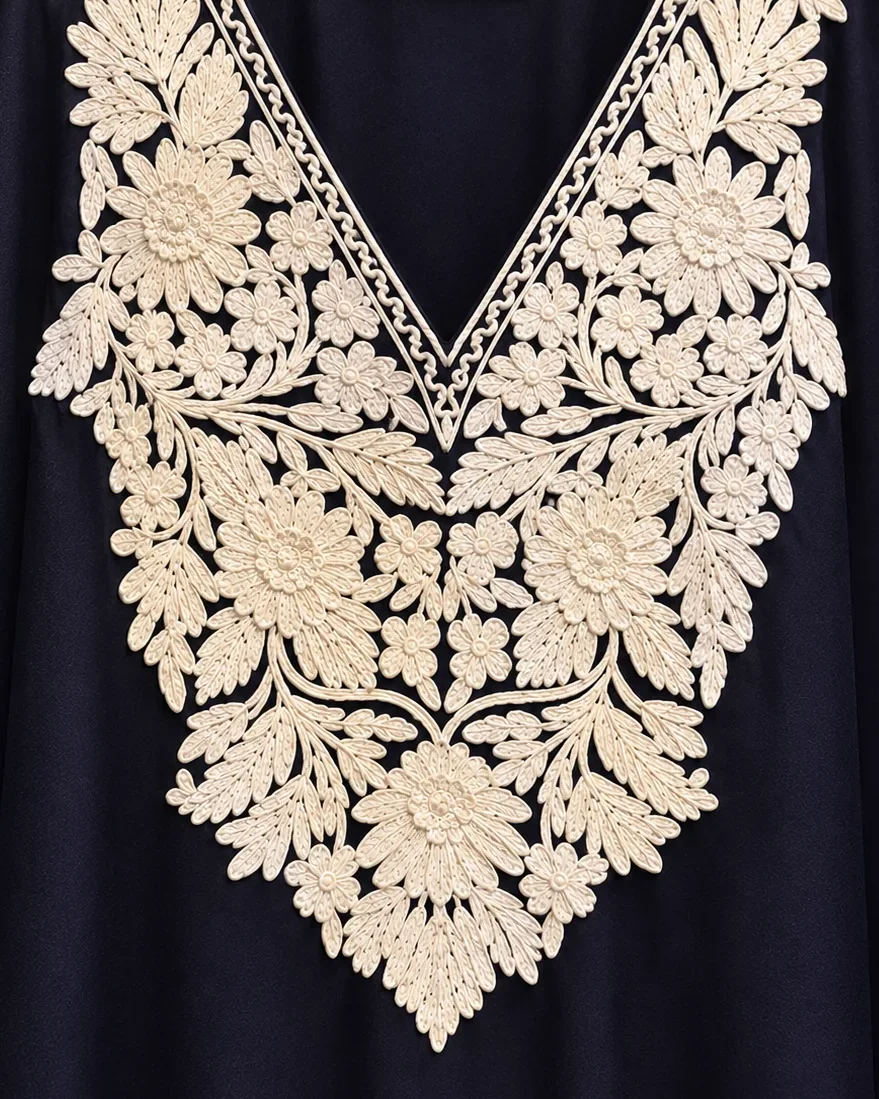
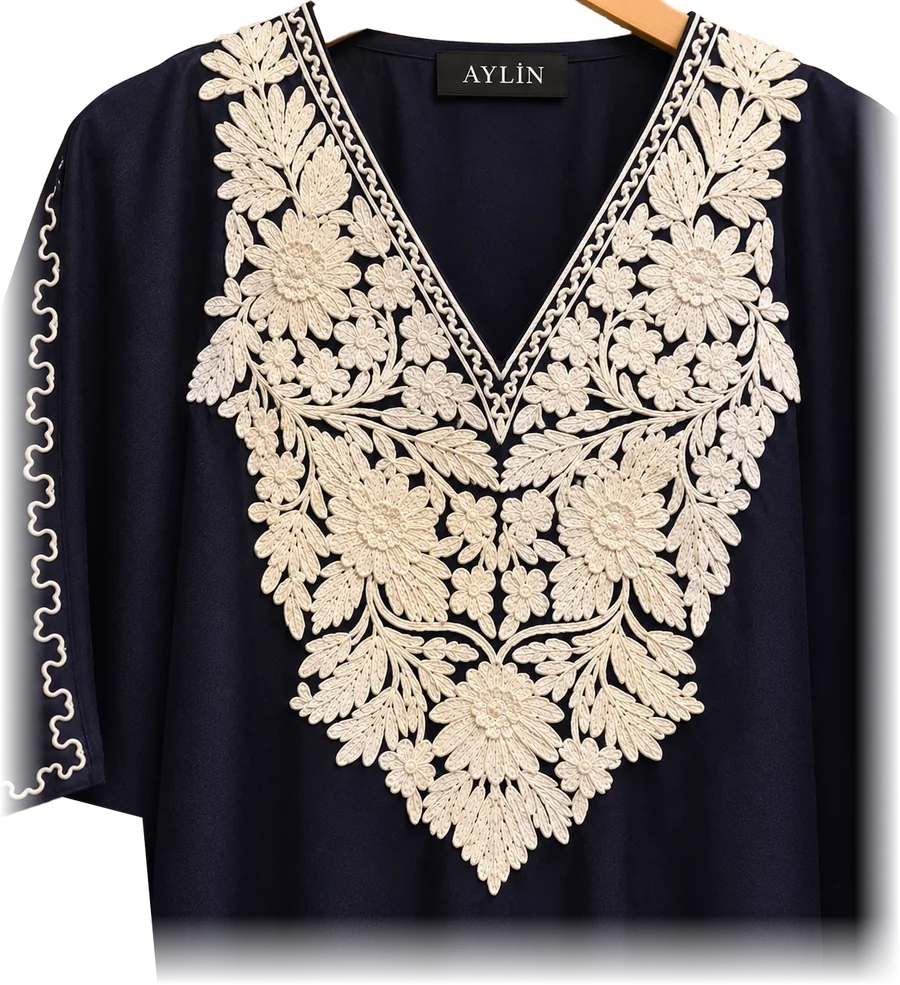
Show embroidery close-ups in full instead of cropping them

diff --git a/js/app.js b/js/app.js
@@ -121,7 +121,7 @@ const card = (p) => {
   const l = lookOf(p);
   const second = l ? l.detail : p.images?.[1];
   return `<a class="card rv look" style="${lookVars(l)}" href="${productUrl(p)}"${ed("product", "", p.id)}>
-    <div class="thumb">${second ? `<img class="close" loading="lazy" src="${esc(second)}" alt="">` : ""}<img class="${l ? "cut" : "front"}" loading="lazy" src="${esc(l ? l.front : img(p))}" alt="${esc(p.name)}">
+    <div class="thumb">${second ? `<img class="close${l ? " whole" : ""}" loading="lazy" src="${esc(second)}" alt="">` : ""}<img class="${l ? "cut" : "front"}" loading="lazy" src="${esc(l ? l.front : img(p))}" alt="${esc(p.name)}">
       ${!p.in_stock ? `<span class="badge out">Sold out</span>` : onSale ? `<span class="badge">${pct(p)}% off</span>` : ""}</div>
     <div class="meta"><h3>${esc(p.name)}</h3>
       <div class="price">${priceHtml(p)}</div>
@@ -192,7 +192,7 @@ function stackHtml(products) {
           <div class="stack-actions">${p.in_stock ? `<button type="button" class="btn wa" data-order>Order on WhatsApp</button>` : `<button type="button" class="btn" disabled>Sold out</button>`}<a class="link" href="${productUrl(p)}">Details</a></div>
         </div>
         <a class="stack-art${l ? "" : " photo"}" href="${productUrl(p)}" aria-label="${esc(p.name)}"><img loading="lazy" src="${esc(l ? l.front : img(p))}" alt="${esc(p.name)}"></a>
-        <a class="stack-detail" href="${productUrl(p)}" tabindex="-1" aria-hidden="true"><img loading="lazy" src="${esc(second)}" alt=""></a>
+        <a class="stack-detail${l ? " whole" : ""}" href="${productUrl(p)}" tabindex="-1" aria-hidden="true"><img loading="lazy" src="${esc(second)}" alt=""></a>
       </div></article>`;
     }).join("")}</div>
     <p class="center" style="padding:24px 0 0"><a class="btn ghost" href="/shop">See everything</a></p>
@@ -258,7 +258,7 @@ async function product(cats, products) {
   const l = lookOf(p);
   const shots = (list) => list.map((u) => ({ src: u }));
   // With studio artwork: cut-out front, close-up, cut-out side and back, then any extra uploads.
-  const studio = () => [{ src: l.front, cut: true }, { src: l.detail }, { src: l.side, cut: true }, { src: l.back, cut: true }, ...shots(p.images.slice(4))];
+  const studio = () => [{ src: l.front, cut: true }, { src: l.detail, cut: true, whole: true }, { src: l.side, cut: true }, { src: l.back, cut: true }, ...shots(p.images.slice(4))];
   const colourShots = p.colors.find((c) => c.images?.length)?.images;
   let gal = colourShots ? shots(colourShots) : l ? studio() : shots(p.images.length ? p.images : [img(p)]); // gallery follows the chosen colour
   const wanted = params.get("size");
@@ -295,6 +295,7 @@ async function product(cats, products) {
     cur = i;
     $("#main").src = gal[cur]?.src || img(p);
     frame.classList.toggle("cut", !!gal[cur]?.cut);
+    frame.classList.toggle("whole", !!gal[cur]?.whole);
     document.querySelectorAll("#thumbs button").forEach((x, n) => x.classList.toggle("on", n === cur));
   };
   const drawThumbs = () => {

diff --git a/css/studio.css b/css/studio.css
@@ -124,6 +124,9 @@
 .stack-detail { position: relative; min-height: 0; overflow: hidden; }
 .stack-detail img { position: absolute; inset: 0; width: 100%; height: 100%; object-fit: cover; transition: transform 1.2s cubic-bezier(.2,.8,.2,1); }
 .stack-detail:hover img { transform: scale(1.18); }
+.stack-detail.whole { background: var(--tone); }
+.stack-detail.whole img { object-fit: contain; object-position: 50% 100%; padding: 14px 8px 0; transform-origin: 50% 100%; }
+.stack-detail.whole:hover img { transform: scale(1.05); }
 .stack-actions { display: flex; flex-wrap: wrap; gap: 10px; align-items: center; }
 .stack-actions .btn { padding: 12px 22px; }
 .link { font-size: 12px; letter-spacing: .2em; text-transform: uppercase; border-bottom: 1px solid currentColor; padding-bottom: 2px; }
@@ -140,6 +143,7 @@
   .stack-text { grid-row: 2; padding: 16px 18px 20px; gap: 9px; }
   .stack-text p, .stack-text .num { display: none; }
   .stack-text h3 { font-size: 26px; }
+  .stack-detail.whole img { object-fit: cover; object-position: 50% 35%; padding: 0; }
   .stack-detail { position: absolute; top: 14px; right: 14px; width: 92px; height: 92px; border-radius: 50%; border: 3px solid #cdb077; z-index: 2; }
 }
 
@@ -179,6 +183,7 @@
 .card .thumb img { position: absolute; inset: 0; transition: opacity .5s, transform .8s cubic-bezier(.2,.8,.2,1); }
 .card .thumb img.cut { inset: 13% 6% 5%; width: 88%; height: 82%; object-fit: contain; filter: drop-shadow(0 14px 14px rgba(35,15,15,.28)); }
 .card .thumb img.close { object-fit: cover; opacity: 0; transform: scale(1.12); }
+.card .thumb img.close.whole { inset: 12% 0 0; width: 100%; height: 88%; object-fit: contain; object-position: 50% 100%; transform: scale(.94); transform-origin: 50% 100%; }
 .card .thumb .badge { top: auto; left: 50%; bottom: 10px; transform: translateX(-50%); white-space: nowrap; z-index: 1; }
 .card:hover .thumb, .card:focus-visible .thumb, .card.peek .thumb { transform: translateY(-6px); box-shadow: 0 22px 40px rgba(50,20,30,.2); }
 .card:hover .thumb img.close, .card:focus-visible .thumb img.close, .card.peek .thumb img.close { opacity: 1; transform: none; }
@@ -197,6 +202,8 @@
 .gallery .main { position: relative; aspect-ratio: 4/5; border-radius: 18px; background: var(--tone, var(--bg-alt)); transition: background .6s; }
 .gallery .main img { transition: transform .35s ease; }
 .gallery .main.cut img { object-fit: contain; padding: 5%; filter: drop-shadow(0 20px 22px rgba(35,15,15,.28)); }
+/* close-up: the whole photo, resting on the bottom edge of the frame */
+.gallery .main.cut.whole img { padding: 3% 0 0; object-position: 50% 100%; filter: none; }
 .gallery .main.zoom { cursor: zoom-in; }
 .gallery .main.zoom.zooming img { transform: scale(2.2); }
 .thumbs button { aspect-ratio: 4/5; border-radius: 10px; background: var(--tone, var(--bg-alt)); }

diff --git a/js/looks.js b/js/looks.js
@@ -4,7 +4,7 @@
 // tl = background in the light theme, td = background in the dark theme, acc = thread colour.
 const LOOKS = (() => {
   const look = (file, tl, td, acc) => ({
-    front: `/assets/cut/${file}-front.webp?v=2`, side: `/assets/cut/${file}-side.webp?v=2`, back: `/assets/cut/${file}-back.webp?v=2`, detail: `/assets/detail/${file}.webp?v=2`, tl, td, acc,
+    front: `/assets/cut/${file}-front.webp?v=2`, side: `/assets/cut/${file}-side.webp?v=2`, back: `/assets/cut/${file}-back.webp?v=2`, detail: `/assets/detail/${file}.webp?v=3`, tl, td, acc,
   });
   return {
     "/media/1793884858284-30351f3b.png": look("ruby-red-kaftan", "#f4d3cc", "#3b1016", "#a8111f"),
